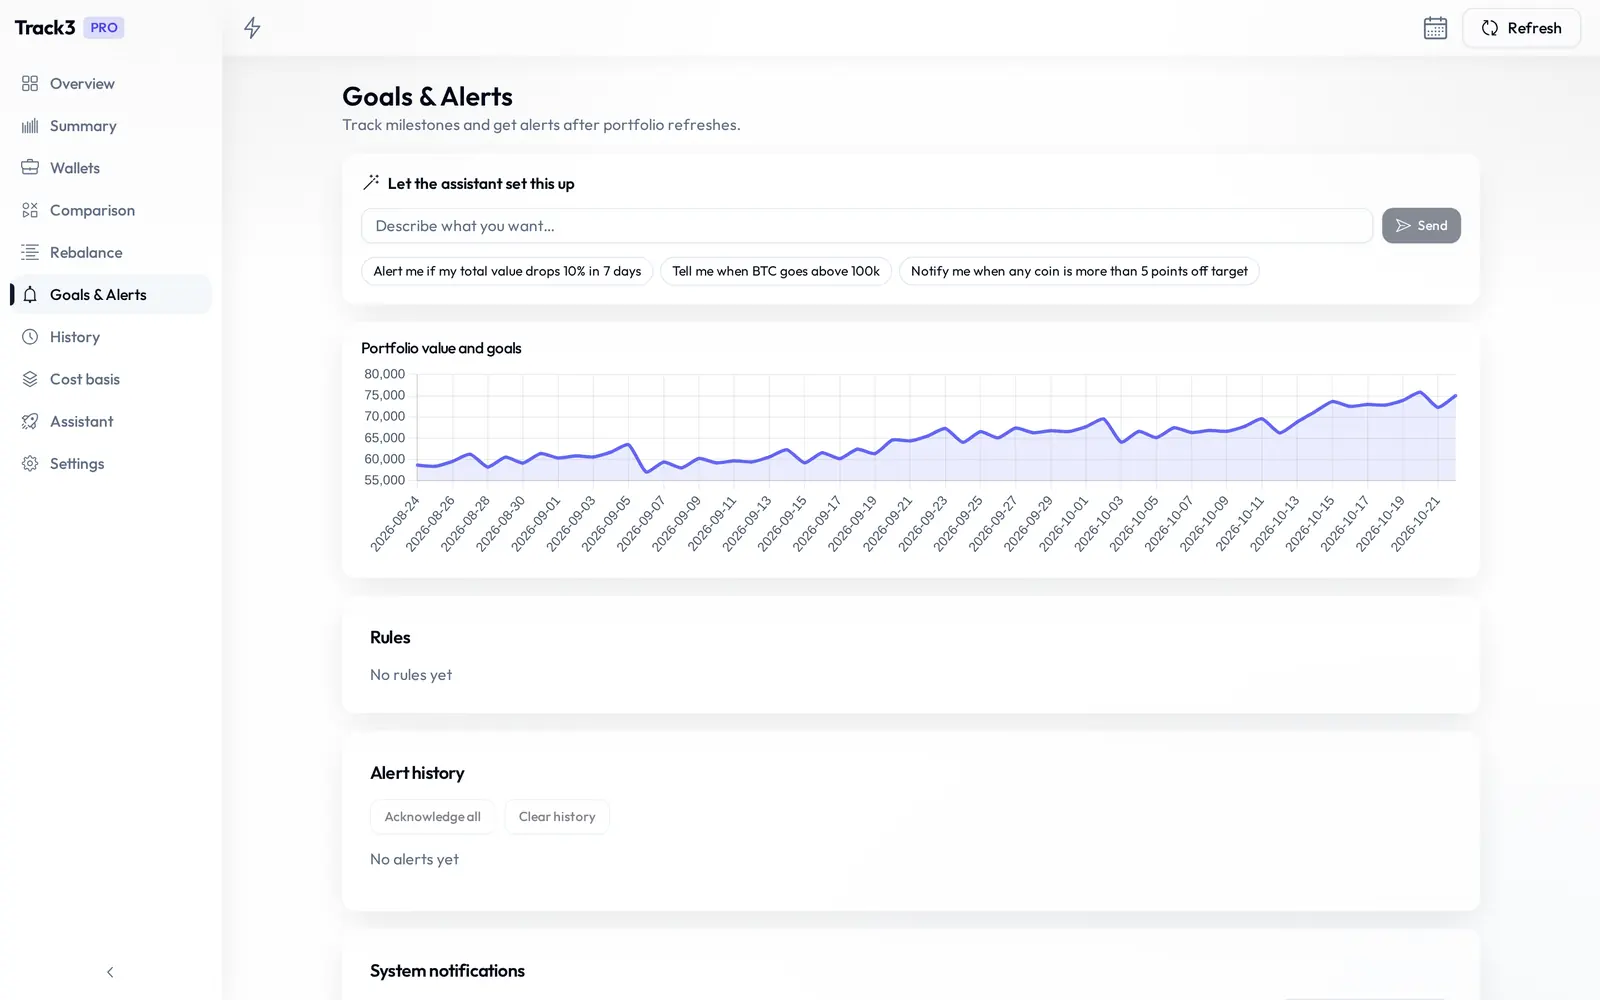
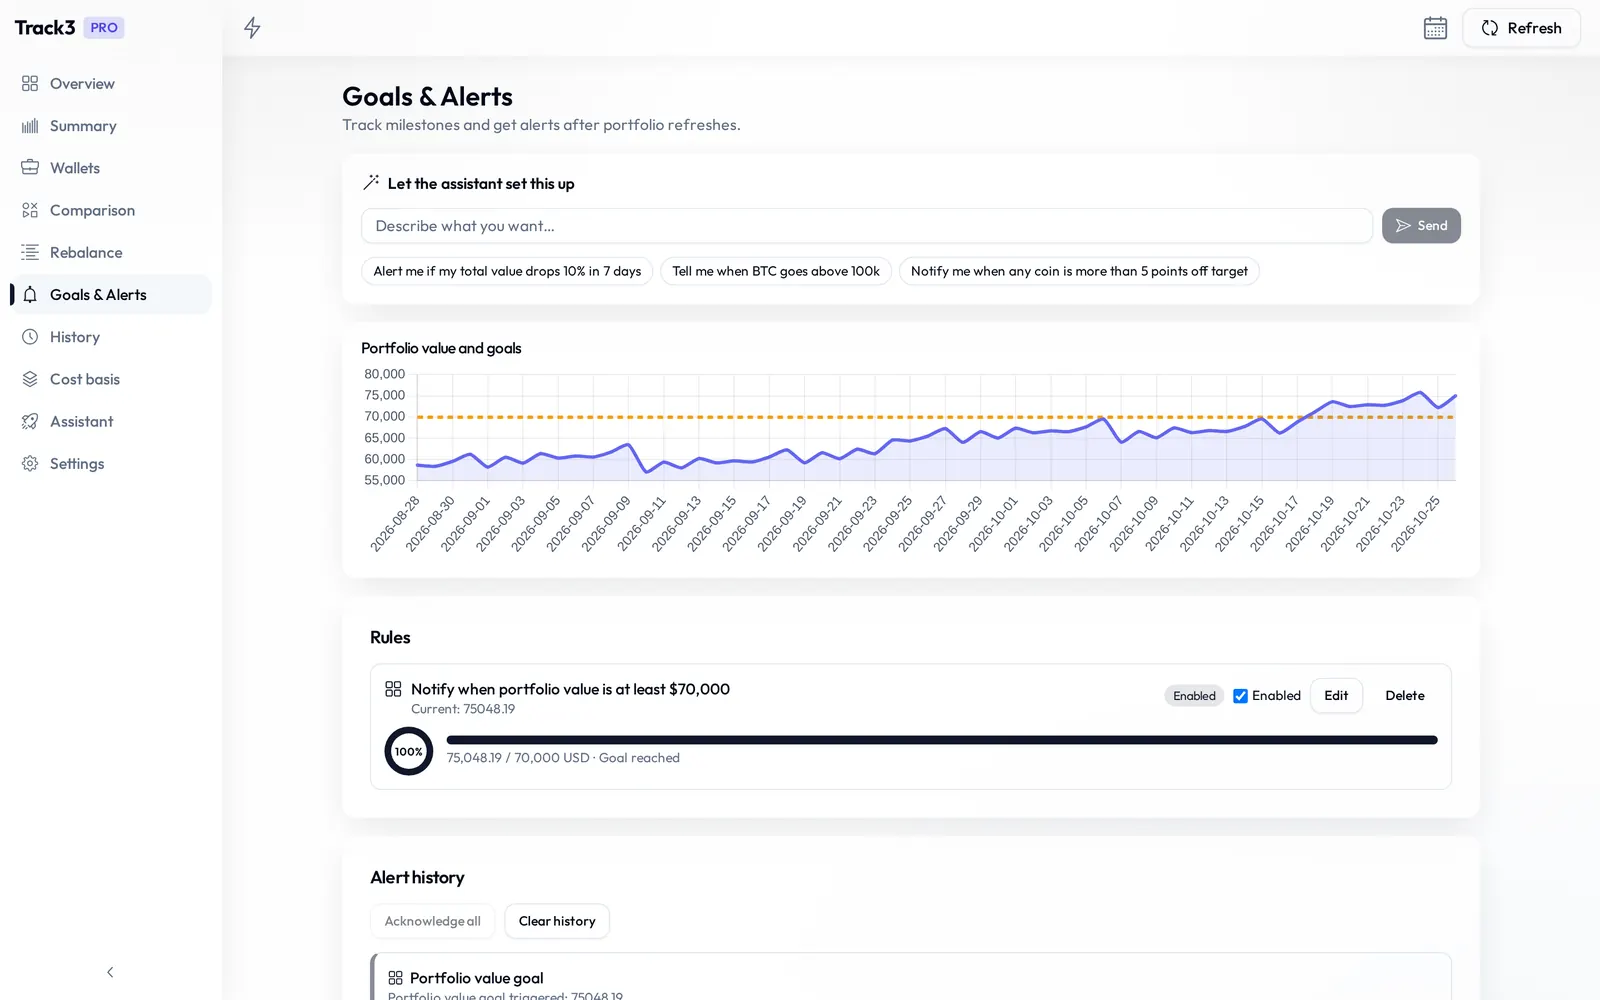
site: update for v0.9.0 and iOS (round 2)

diff --git a/index.html b/index.html
@@ -22,13 +22,13 @@
     />
     <meta property="og:type" content="website" />
     <meta property="og:url" content="https://track3.domc.me/" />
-    <meta property="og:image" content="https://track3.domc.me/images/desktop/overview.webp" />
-    <meta property="og:image:width" content="1600" />
-    <meta property="og:image:height" content="1000" />
+    <meta property="og:image" content="https://track3.domc.me/images/social-overview.jpg" />
+    <meta property="og:image:width" content="1200" />
+    <meta property="og:image:height" content="630" />
     <meta name="twitter:card" content="summary_large_image" />
     <meta name="twitter:title" content="Track3 — Crypto &amp; Stock Portfolio Tracker for Desktop and iOS" />
     <meta name="twitter:description" content="Track crypto and stocks on desktop, iPhone, and iPad, with portfolio analytics and an AI assistant." />
-    <meta name="twitter:image" content="https://track3.domc.me/images/desktop/overview.webp" />
+    <meta name="twitter:image" content="https://track3.domc.me/images/social-overview.jpg" />
     <link rel="canonical" href="https://track3.domc.me/" />
     <link rel="preconnect" href="https://fonts.googleapis.com" />
     <link rel="preconnect" href="https://fonts.gstatic.com" crossorigin />
@@ -950,7 +950,10 @@
       }
       .cta .section__label {
         justify-content: center;
-        color: rgba(255, 255, 255, 0.74);
+        color: var(--text);
+        background: #fff;
+        border-radius: 999px;
+        padding: 7px 12px;
         margin-bottom: 18px;
       }
       .cta p {
@@ -1116,7 +1119,6 @@
           border-radius: 12px;
         }
         .nav__menu-links a:hover { background: var(--accent-soft); }
-        }
         .nav__cta {
           padding: 10px 14px;
         }
@@ -1138,10 +1140,10 @@
           margin-left: 8px;
           margin-right: 8px;
         }
-        .hero__aside { order: 2; }
-        .hero__copy { order: 3 !important; }
-        .hero__actions { order: 4 !important; }
-        .hero__platforms { order: 5 !important; }
+        .hero__copy { order: 2 !important; }
+        .hero__actions { order: 3 !important; }
+        .hero__platforms { order: 4 !important; }
+        .hero__aside { order: 5; }
         .hero__content,
         .hero__aside,
         .privacy-banner,
@@ -1412,7 +1414,7 @@
             <div class="screenshots__dots" id="ipadDots"></div>
           </div>
         </div>
-        <p class="ios__note">Files import and export, iCloud Drive backup folders, Face ID app lock, and local alerts are available in the iOS build. Track3 for iOS builds from the repository and can be sideloaded with AltStore or Sideloadly using a free Apple ID; free signing lasts 7 days. <a href="https://github.com/domechn/track3/blob/master/README.md#ios-app-iphone-and-ipad">Read the iOS overview</a> and <a href="https://github.com/domechn/track3/blob/master/docs/ios/RELEASE.md">build and signing guide</a>.</p>
+        <p class="ios__note">Files import and export, iCloud Drive backup folders, Face ID app lock, and local alerts are available in the iOS build. Track3 for iOS builds from the repository; the <a href="https://github.com/domechn/track3/blob/master/docs/ios/RELEASE.md">release guide covers Xcode building and signing</a>. AltStore and Sideloadly are general sideload options, but the repository does not document their steps. Free Apple ID signing generally needs renewal every 7 days. <a href="https://github.com/domechn/track3/blob/master/README.md#ios-app-iphone-and-ipad">Read the iOS overview</a>.</p>
       </div>
     </section>
 
@@ -1569,7 +1571,7 @@
       <div class="container" style="text-align: center">
         <div class="animate-in">
           <p class="section__label">&#128257; Supported Platforms</p>
-          <h2 class="section__title">
+          <h2 class="section__title" style="margin-left: auto; margin-right: auto">
             Connect exchanges, brokers, and wallets
           </h2>
           <p
@@ -1582,19 +1584,19 @@
         </div>
         <div class="exchanges animate-in">
           <div class="exchange">
-            <span class="exchange__logo">&#127312;</span> Binance
+            <span class="exchange__logo">&#127313;</span> Binance
           </div>
           <div class="exchange">
-            <span class="exchange__logo">&#127320;</span> OKX
+            <span class="exchange__logo">&#127326;</span> OKX
           </div>
           <div class="exchange">
             <span class="exchange__logo">&#127313;</span> Bitget
           </div>
           <div class="exchange">
-            <span class="exchange__logo">&#127318;</span> Kraken
+            <span class="exchange__logo">&#127322;</span> Kraken
           </div>
           <div class="exchange">
-            <span class="exchange__logo">&#127316;</span> Gate.io
+            <span class="exchange__logo">&#127318;</span> Gate.io
           </div>
           <div class="exchange">
             <span class="exchange__logo">&#127313;</span> Bybit
@@ -1606,7 +1608,10 @@
             <span class="exchange__logo">&#127319;</span> HTX
           </div>
           <div class="exchange">
-            <span class="exchange__logo">&#127316;</span> MEXC
+            <span class="exchange__logo">&#127324;</span> MEXC
+          </div>
+          <div class="exchange">
+            <span class="exchange__logo">&#127313;</span> Backpack
           </div>
           <div class="exchange">
             <span class="exchange__logo">&#128200;</span> IBKR
@@ -1937,7 +1942,7 @@
             >Wiki</a
           >
           <a
-            href="https://github.com/domechn/track3/blob/main/LICENSE"
+            href="https://github.com/domechn/track3/blob/master/LICENSE"
             target="_blank"
             rel="noopener"
             >License</a

diff --git a/download.html b/download.html
@@ -6,7 +6,7 @@
     <title>Get Track3 — Desktop Downloads and iOS Build Guide</title>
     <meta
       name="description"
-      content="Get Track3 v0.9.0 for macOS, Windows, or Linux, or follow the build and sideload guide for iPhone and iPad. There is no iOS App Store release."
+      content="Get the latest Track3 desktop installer for macOS, Windows, or Linux. For iPhone and iPad, see the repository's Xcode build and signing guide."
     />
     <meta
       property="og:title"
@@ -21,11 +21,11 @@
       property="og:url"
       content="https://track3.domc.me/download.html"
     />
-    <meta property="og:image" content="https://track3.domc.me/images/desktop/overview.webp" />
+    <meta property="og:image" content="https://track3.domc.me/images/social-overview.jpg" />
     <meta name="twitter:card" content="summary_large_image" />
     <meta name="twitter:title" content="Get Track3 — Desktop Downloads and iOS Build Guide" />
     <meta name="twitter:description" content="Desktop installers and the iPhone and iPad build guide for Track3." />
-    <meta name="twitter:image" content="https://track3.domc.me/images/desktop/overview.webp" />
+    <meta name="twitter:image" content="https://track3.domc.me/images/social-overview.jpg" />
     <link rel="canonical" href="https://track3.domc.me/download.html" />
     <link rel="preconnect" href="https://fonts.googleapis.com" />
     <link rel="preconnect" href="https://fonts.gstatic.com" crossorigin />
@@ -617,8 +617,8 @@
               <div class="panel__header">
                 <p class="eyebrow">iPhone and iPad</p>
                 <h2 class="panel__title" id="iosDownloadTitle">Build and sideload the iOS app</h2>
-                <p class="panel__text">The iOS app is not on the App Store. Build it from the repository, sign it with your Apple ID, then install it with AltStore or Sideloadly. A free Apple ID requires renewing the signing every 7 days.</p>
-                <p class="panel__text"><a href="https://github.com/domechn/track3/blob/master/README.md#ios-app-iphone-and-ipad">iOS overview in the README</a> · <a href="https://github.com/domechn/track3/blob/master/docs/ios/RELEASE.md">Build and signing guide</a></p>
+                <p class="panel__text">The iOS app is not on the App Store. Build and sign it from the repository with Xcode. AltStore and Sideloadly are general sideload options, but the repository does not document their steps. Free Apple ID signing generally needs renewal every 7 days.</p>
+                <p class="panel__text"><a href="https://github.com/domechn/track3/blob/master/README.md#ios-app-iphone-and-ipad">iOS overview in the README</a> · <a href="https://github.com/domechn/track3/blob/master/docs/ios/RELEASE.md">Xcode build and signing guide</a></p>
               </div>
             </div>
           </section>
@@ -783,9 +783,9 @@
         if (detectedPlatform.os === "ios") {
           return {
             title: "Track3 for iPhone and iPad",
-            text: "Build Track3 for iOS from the repository, then sideload the signed app with AltStore or Sideloadly. Free Apple ID signing lasts 7 days.",
+            text: "Build and sign Track3 for iOS with Xcode. The repository's release guide covers these steps; it does not document AltStore or Sideloadly sideloading.",
             actions: [
-              '<a class="download-button" href="#ios">See iOS build steps</a>',
+              '<a class="download-button" href="https://github.com/domechn/track3/blob/master/docs/ios/RELEASE.md">See Xcode build guide</a>',
             ],
           };
         }
